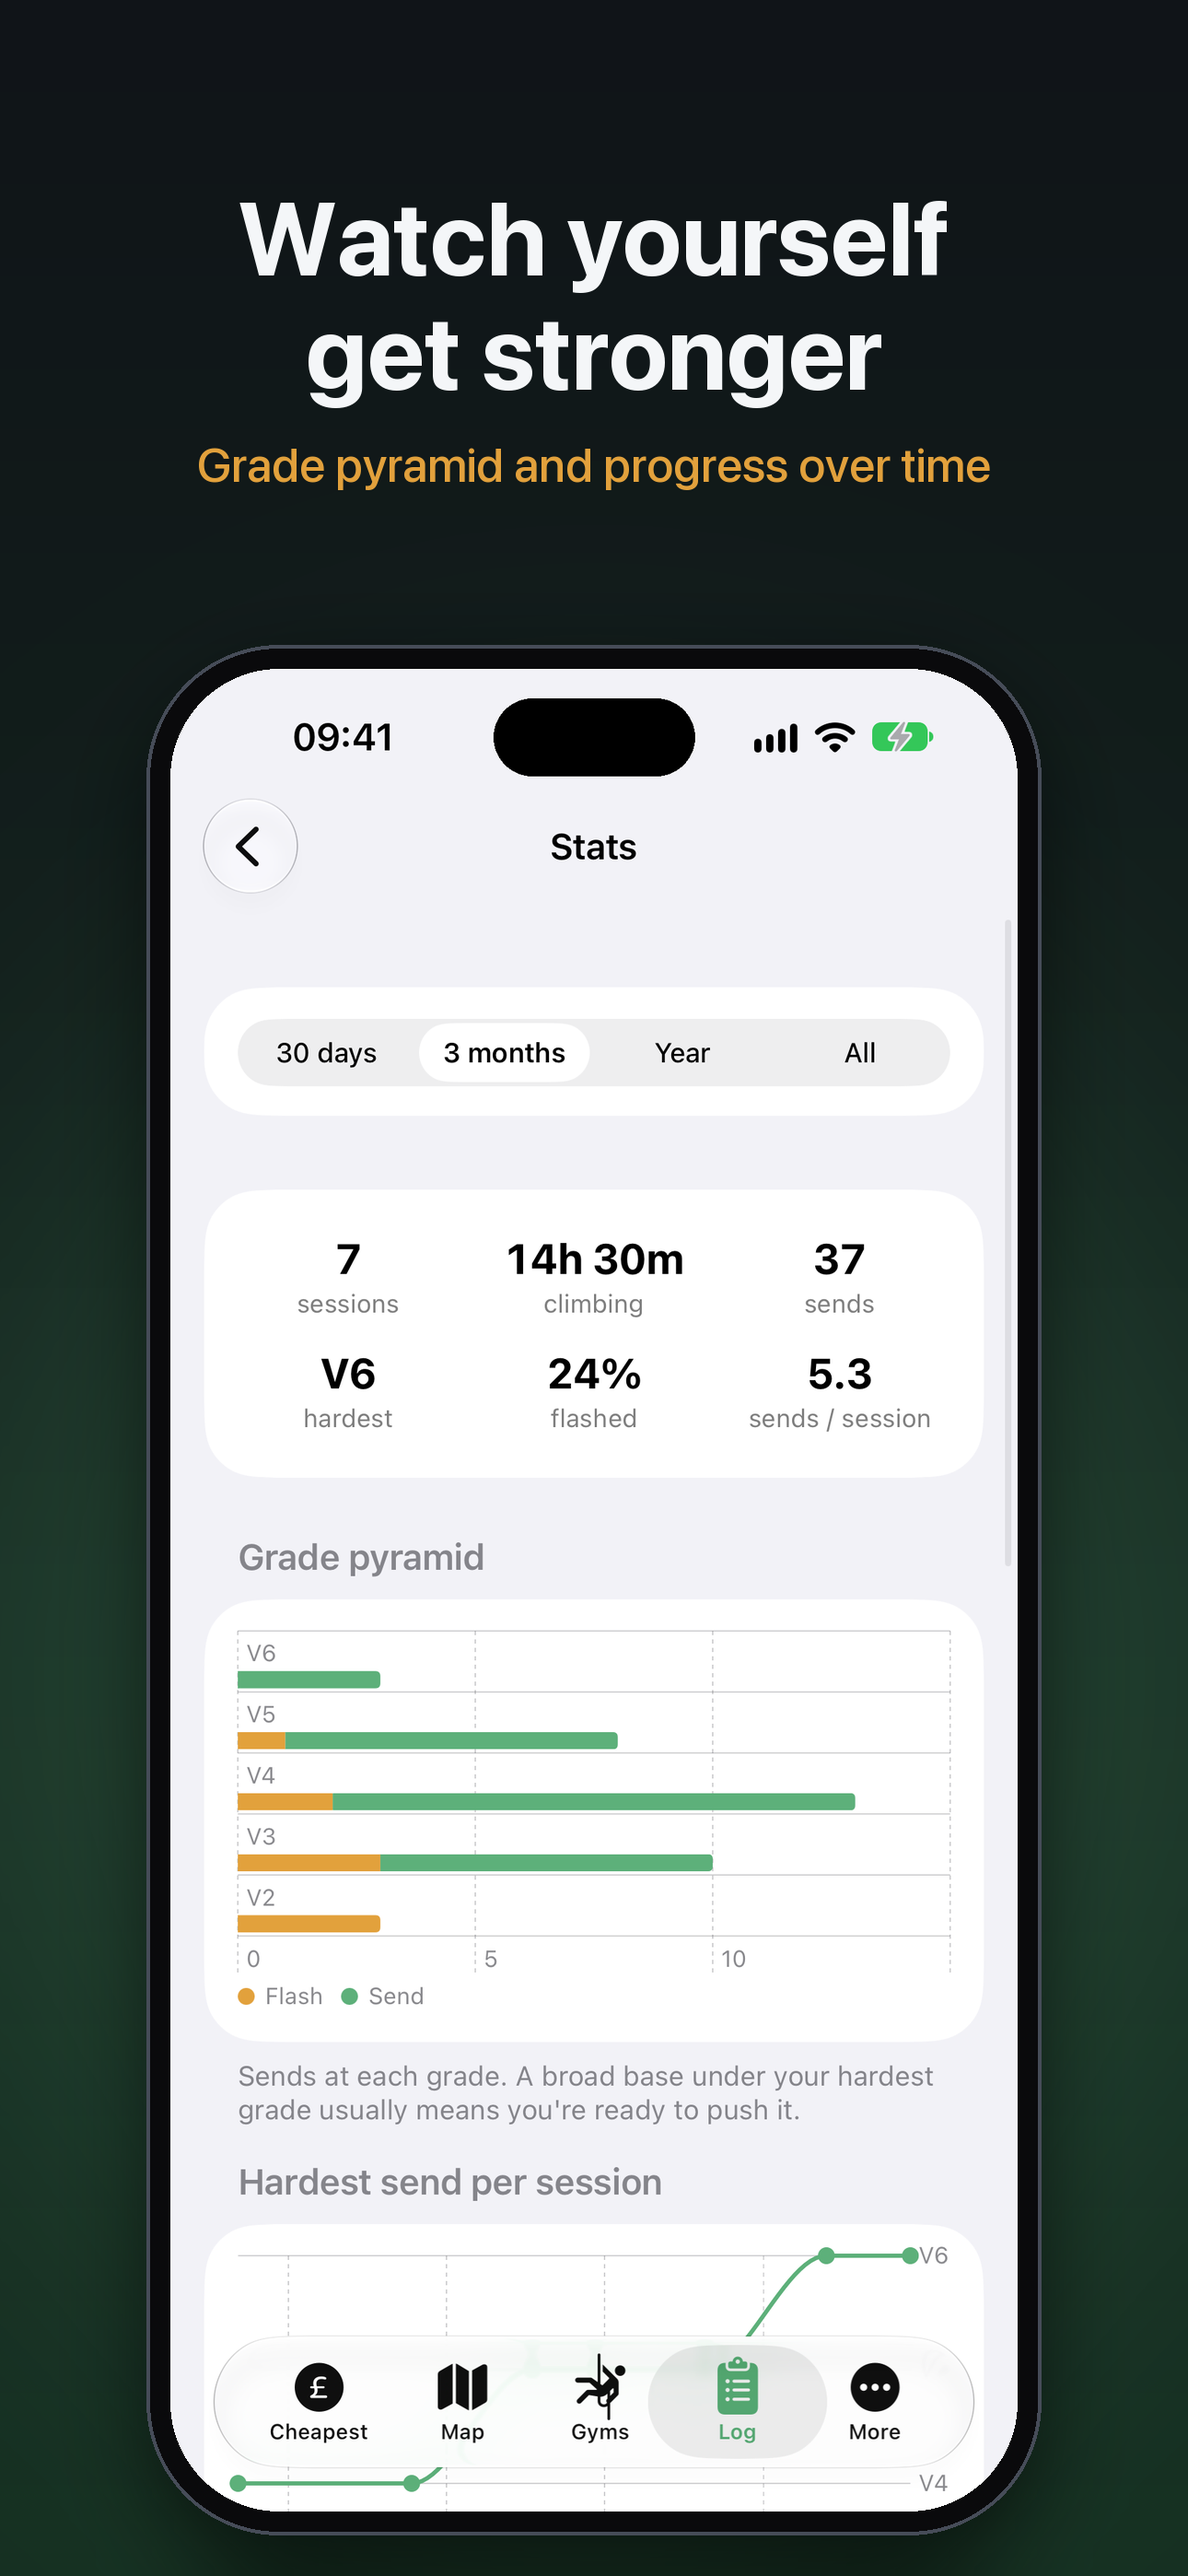
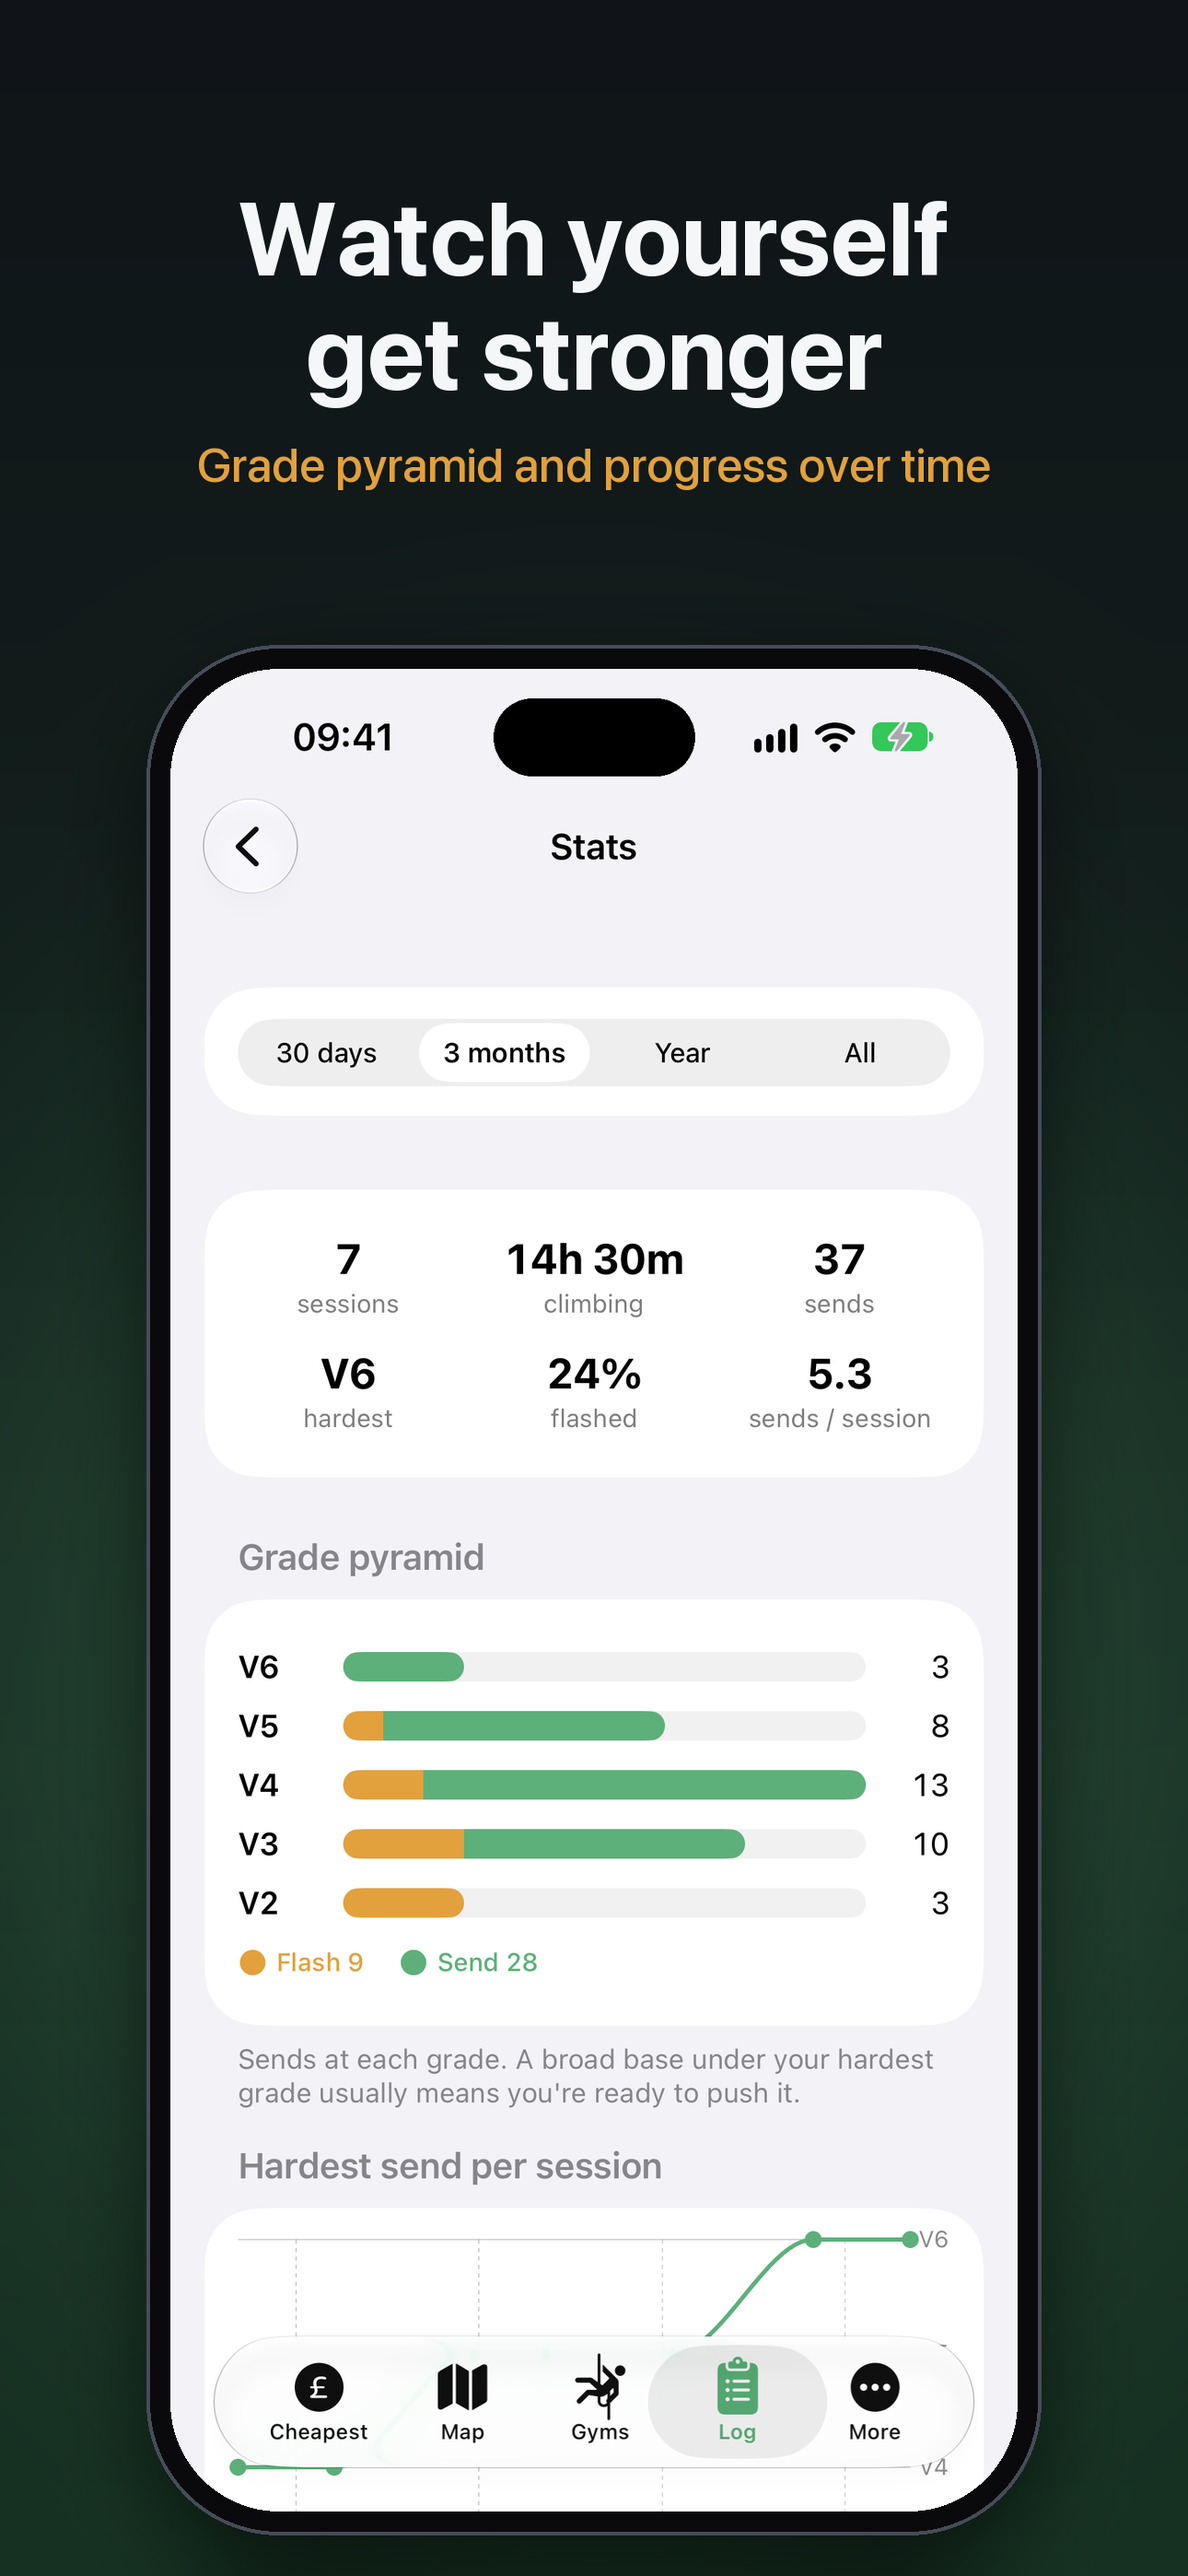
Retake the Stats screenshot with the new grade pyramid
ad_screenshots.py: compose can remake just the named shots, and the demo
logbook sets the new felt-grade column.

diff --git a/ios/tools/ad_screenshots.py b/ios/tools/ad_screenshots.py
@@ -5,6 +5,7 @@ Makes the App Store / advert screenshots in ios/screenshots/.
     python3 ios/tools/ad_screenshots.py demo      # prepare the booted simulator
     python3 ios/tools/ad_screenshots.py restore   # put the simulator's own data back
     python3 ios/tools/ad_screenshots.py compose   # frame build/screenshots/*.png
+    python3 ios/tools/ad_screenshots.py compose stats   # remake just the named shots
 
 `demo` backs up the app's data on the booted simulator, then sets the start location
 to Trafalgar Square (WC2N 5DU), fills the logbook with made-up sessions and cleans up
@@ -113,8 +114,8 @@ def seed_logbook(store):
                    " values (?,2,1,0,?,?,?,?,'',?)", (pk, t0 + mins * 60, price, t0, gym, uuid.uuid4().bytes))
         for i, (grade, result) in enumerate(climbs, 1):
             climb += 1
-            db.execute("insert into ZCLIMB (Z_PK,Z_ENT,Z_OPT,ZGRADE,ZSESSION,ZLOGGEDAT,ZDISCIPLINERAW,ZRESULTRAW,ZID,ZISCOMP)"
-                       " values (?,1,1,?,?,?,'boulder',?,?,0)",
+            db.execute("insert into ZCLIMB (Z_PK,Z_ENT,Z_OPT,ZGRADE,ZSESSION,ZLOGGEDAT,ZDISCIPLINERAW,ZRESULTRAW,ZID,ZISCOMP,ZFELTGRADESET)"
+                       " values (?,1,1,?,?,?,'boulder',?,?,0,0)",
                        (climb, grade, pk, t0 + i * mins * 60 / (len(climbs) + 1), result, uuid.uuid4().bytes))
     db.execute("update Z_PRIMARYKEY set Z_MAX=? where Z_NAME='Climb'", (climb,))
     db.execute("update Z_PRIMARYKEY set Z_MAX=? where Z_NAME='ClimbSession'", (len(DEMO_SESSIONS),))
@@ -139,7 +140,7 @@ def restore():
     print("Restored.")
 
 
-def compose():
+def compose(only=()):
     from PIL import Image, ImageDraw, ImageFilter, ImageFont
 
     W, H = 1290, 2796                      # App Store 6.7"/6.9" portrait
@@ -196,7 +197,30 @@ def compose():
         return body
 
     os.makedirs(OUT, exist_ok=True)
+    shots = [s for s in SHOTS if not only or s[1] in only]
+    if only and len(shots) != len(set(only)):
+        sys.exit("Unknown shot name; use " + ", ".join(s[1] for s in SHOTS))
+    if not only:
+        compose_cover(background, centred, font, colours, white, muted)
+    for name, raw, title, sub, accent in shots:
+        bg = background()
+        d = ImageDraw.Draw(bg)
+        y = centred(d, 190, title, font(112, "Bold"), white, gap=12)
+        centred(d, y + 34, sub, font(52, "Medium"), colours[accent], gap=12)
+        p = phone(os.path.join(RAW, raw + ".png"), 920)
+        x, top = (W - p.width) // 2, 700
+        shadow = Image.new("L", (W, H), 0)
+        ImageDraw.Draw(shadow).rounded_rectangle((x + 10, top + 40, x + p.width - 10, top + p.height + 40), 150, fill=170)
+        bg.paste(Image.new("RGB", (W, H), (0, 0, 0)), (0, 0), shadow.filter(ImageFilter.GaussianBlur(50)))
+        bg.paste(p, (x, top), p)
+        bg.save(os.path.join(OUT, name + ".png"), optimize=True)
+    print(f"Wrote {len(shots) + (0 if only else 1)} images to {os.path.relpath(OUT, ROOT)}/")
 
+
+def compose_cover(background, centred, font, colours, white, muted):
+    from PIL import Image, ImageDraw
+
+    W, H = 1290, 2796
     bg = background()
     d = ImageDraw.Draw(bg)
     icon = Image.open(ICON).convert("RGBA").resize((380, 380), Image.LANCZOS)
@@ -213,23 +237,12 @@ def compose():
     d.text((W / 2, H - 170), "Free · iPhone · web", font=font(44, "Semibold"), fill=muted, anchor="ma")
     bg.save(os.path.join(OUT, "00-cover.png"), optimize=True)
 
-    for name, raw, title, sub, accent in SHOTS:
-        bg = background()
-        d = ImageDraw.Draw(bg)
-        y = centred(d, 190, title, font(112, "Bold"), white, gap=12)
-        centred(d, y + 34, sub, font(52, "Medium"), colours[accent], gap=12)
-        p = phone(os.path.join(RAW, raw + ".png"), 920)
-        x, top = (W - p.width) // 2, 700
-        shadow = Image.new("L", (W, H), 0)
-        ImageDraw.Draw(shadow).rounded_rectangle((x + 10, top + 40, x + p.width - 10, top + p.height + 40), 150, fill=170)
-        bg.paste(Image.new("RGB", (W, H), (0, 0, 0)), (0, 0), shadow.filter(ImageFilter.GaussianBlur(50)))
-        bg.paste(p, (x, top), p)
-        bg.save(os.path.join(OUT, name + ".png"), optimize=True)
-    print(f"Wrote {len(SHOTS) + 1} images to {os.path.relpath(OUT, ROOT)}/")
-
 
 if __name__ == "__main__":
     cmds = {"demo": demo, "restore": restore, "compose": compose}
-    if len(sys.argv) != 2 or sys.argv[1] not in cmds:
+    if len(sys.argv) < 2 or sys.argv[1] not in cmds or (len(sys.argv) > 2 and sys.argv[1] != "compose"):
         sys.exit(__doc__)
-    cmds[sys.argv[1]]()
+    if sys.argv[1] == "compose":
+        compose(sys.argv[2:])
+    else:
+        cmds[sys.argv[1]]()

diff --git a/ios/README.md b/ios/README.md
@@ -143,7 +143,8 @@ plus seven framed screens with headlines. To remake them after the app or prices
 2. Capture each screen with `xcrun simctl io booted screenshot build/screenshots/<name>.png`,
    where `<name>` is `cheapest`, `map`, `deals` (More → Deals → Weekly), `gym`,
    `gyms`, `logbook` or `stats`.
-3. `python3 ios/tools/ad_screenshots.py compose` writes the framed images.
+3. `python3 ios/tools/ad_screenshots.py compose` writes the framed images. To remake only
+   some, name them: `compose stats`.
 4. `python3 ios/tools/ad_screenshots.py restore` puts the simulator's own data back.
 
 Headlines and the demo logbook are at the top of `ios/tools/ad_screenshots.py`. Never
